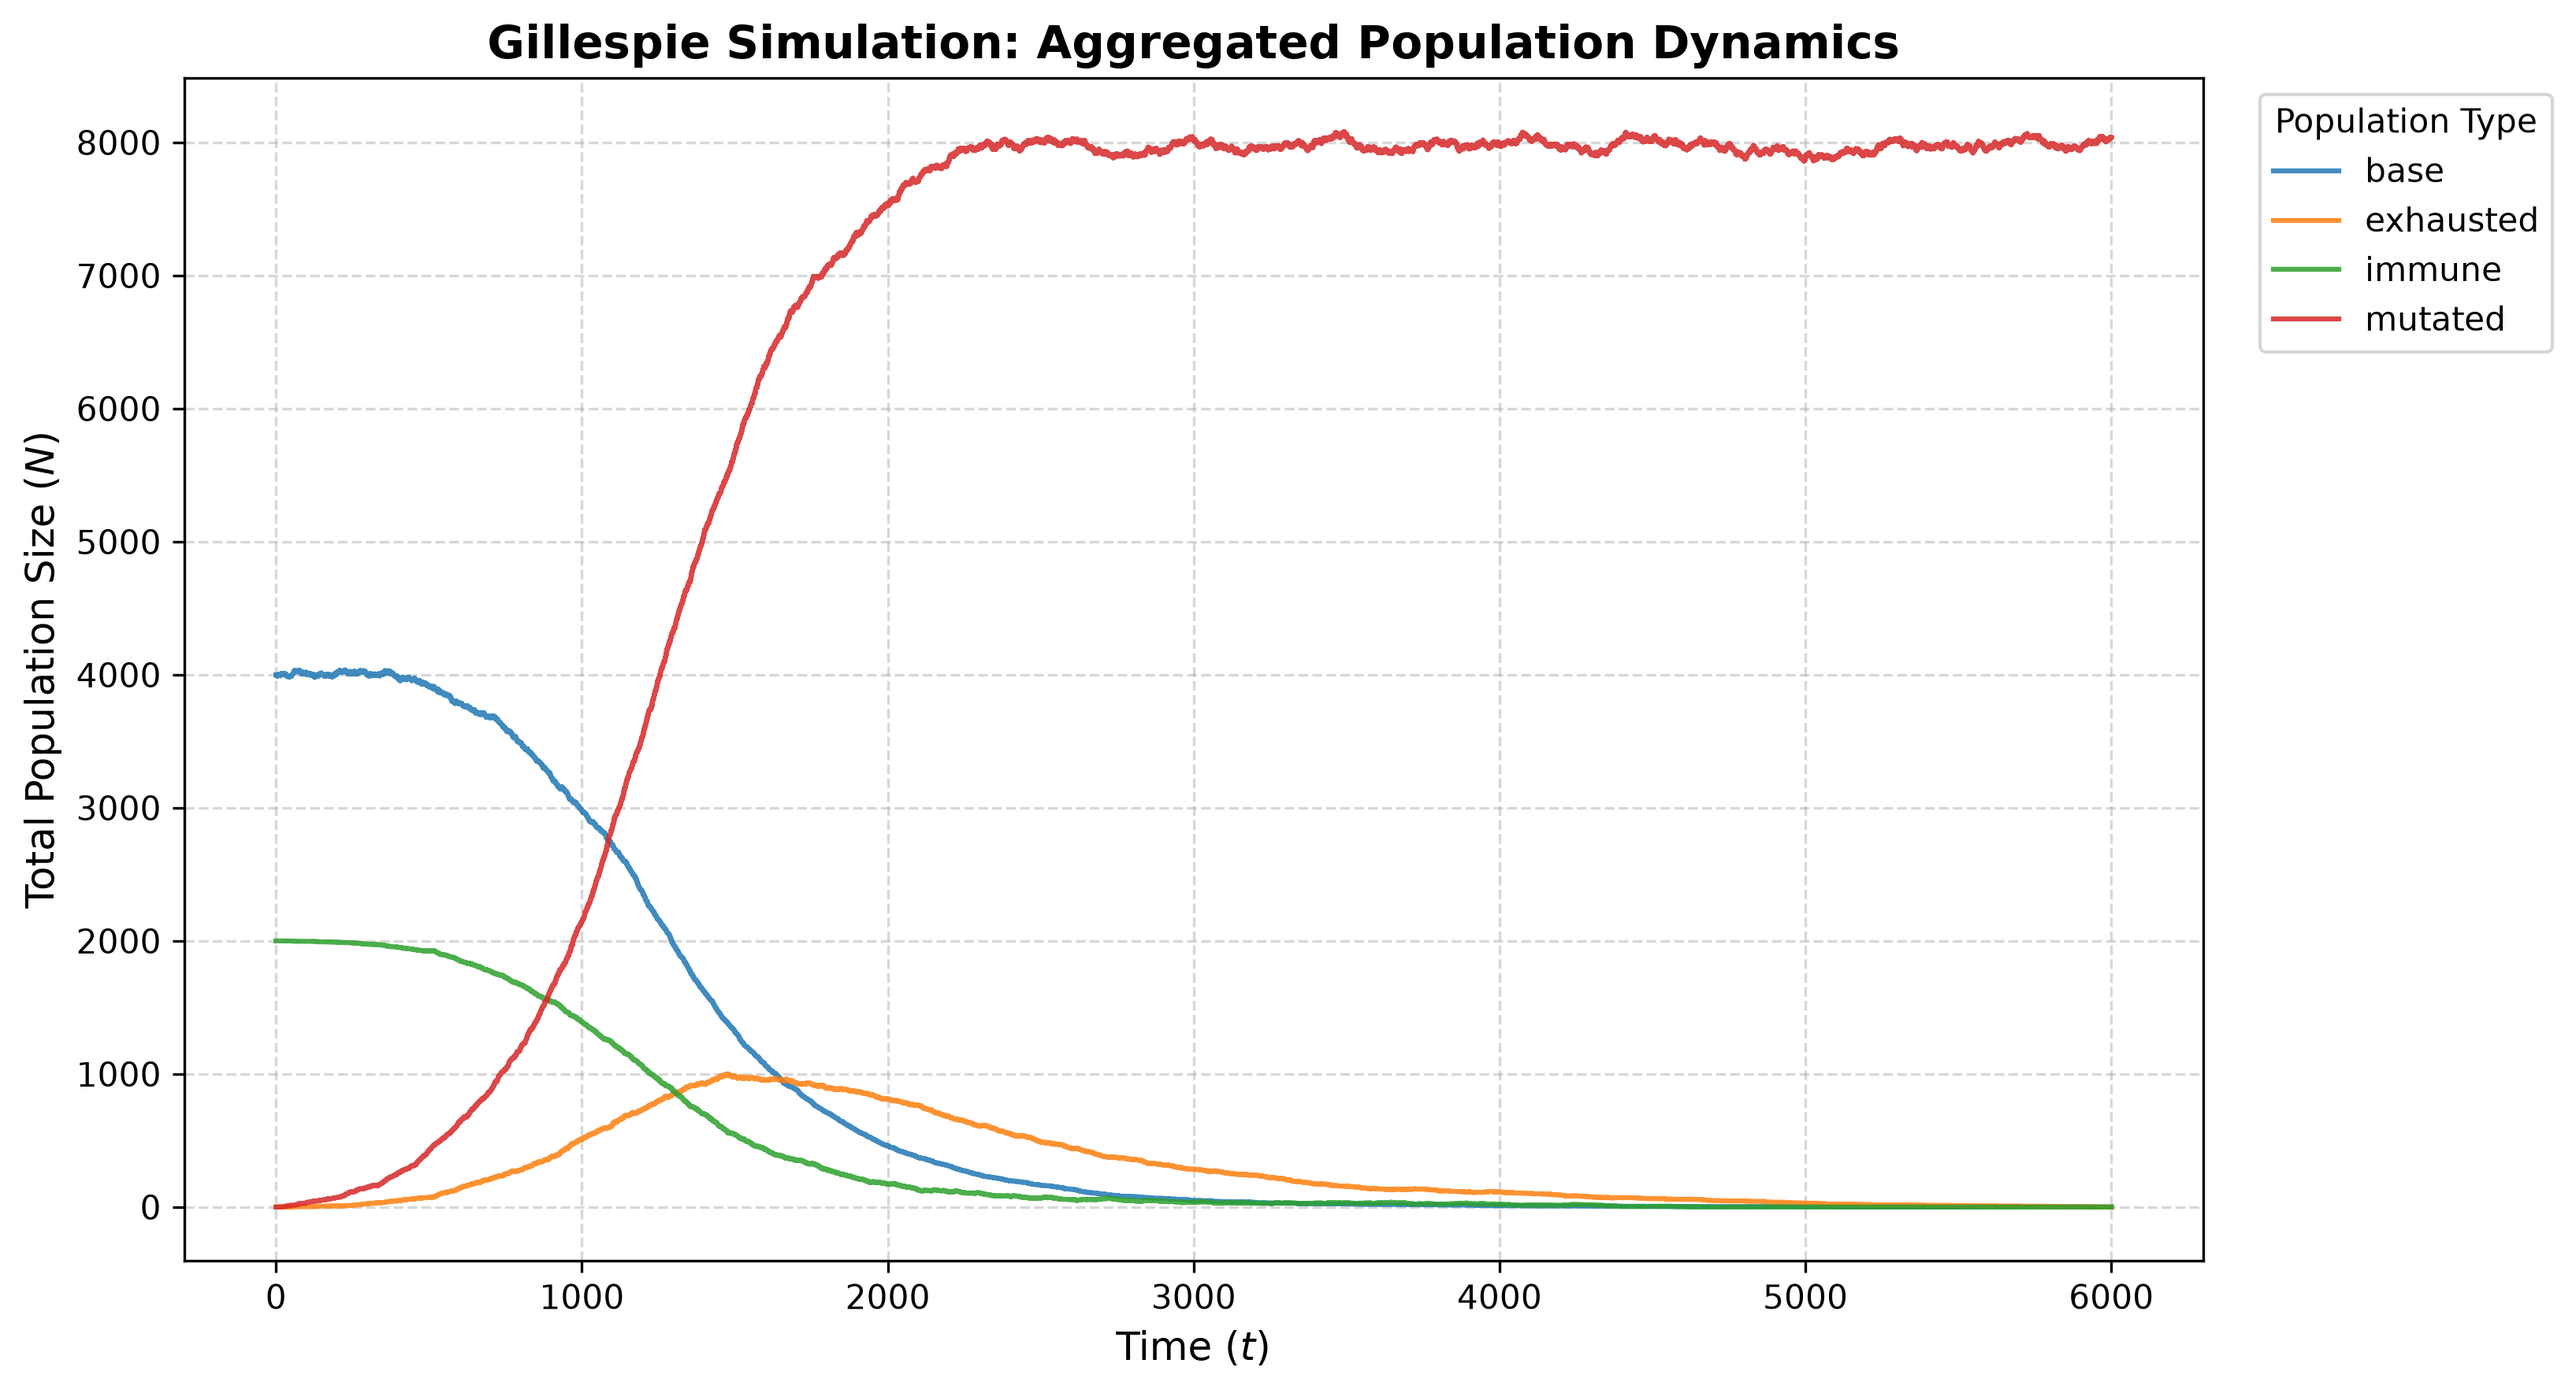
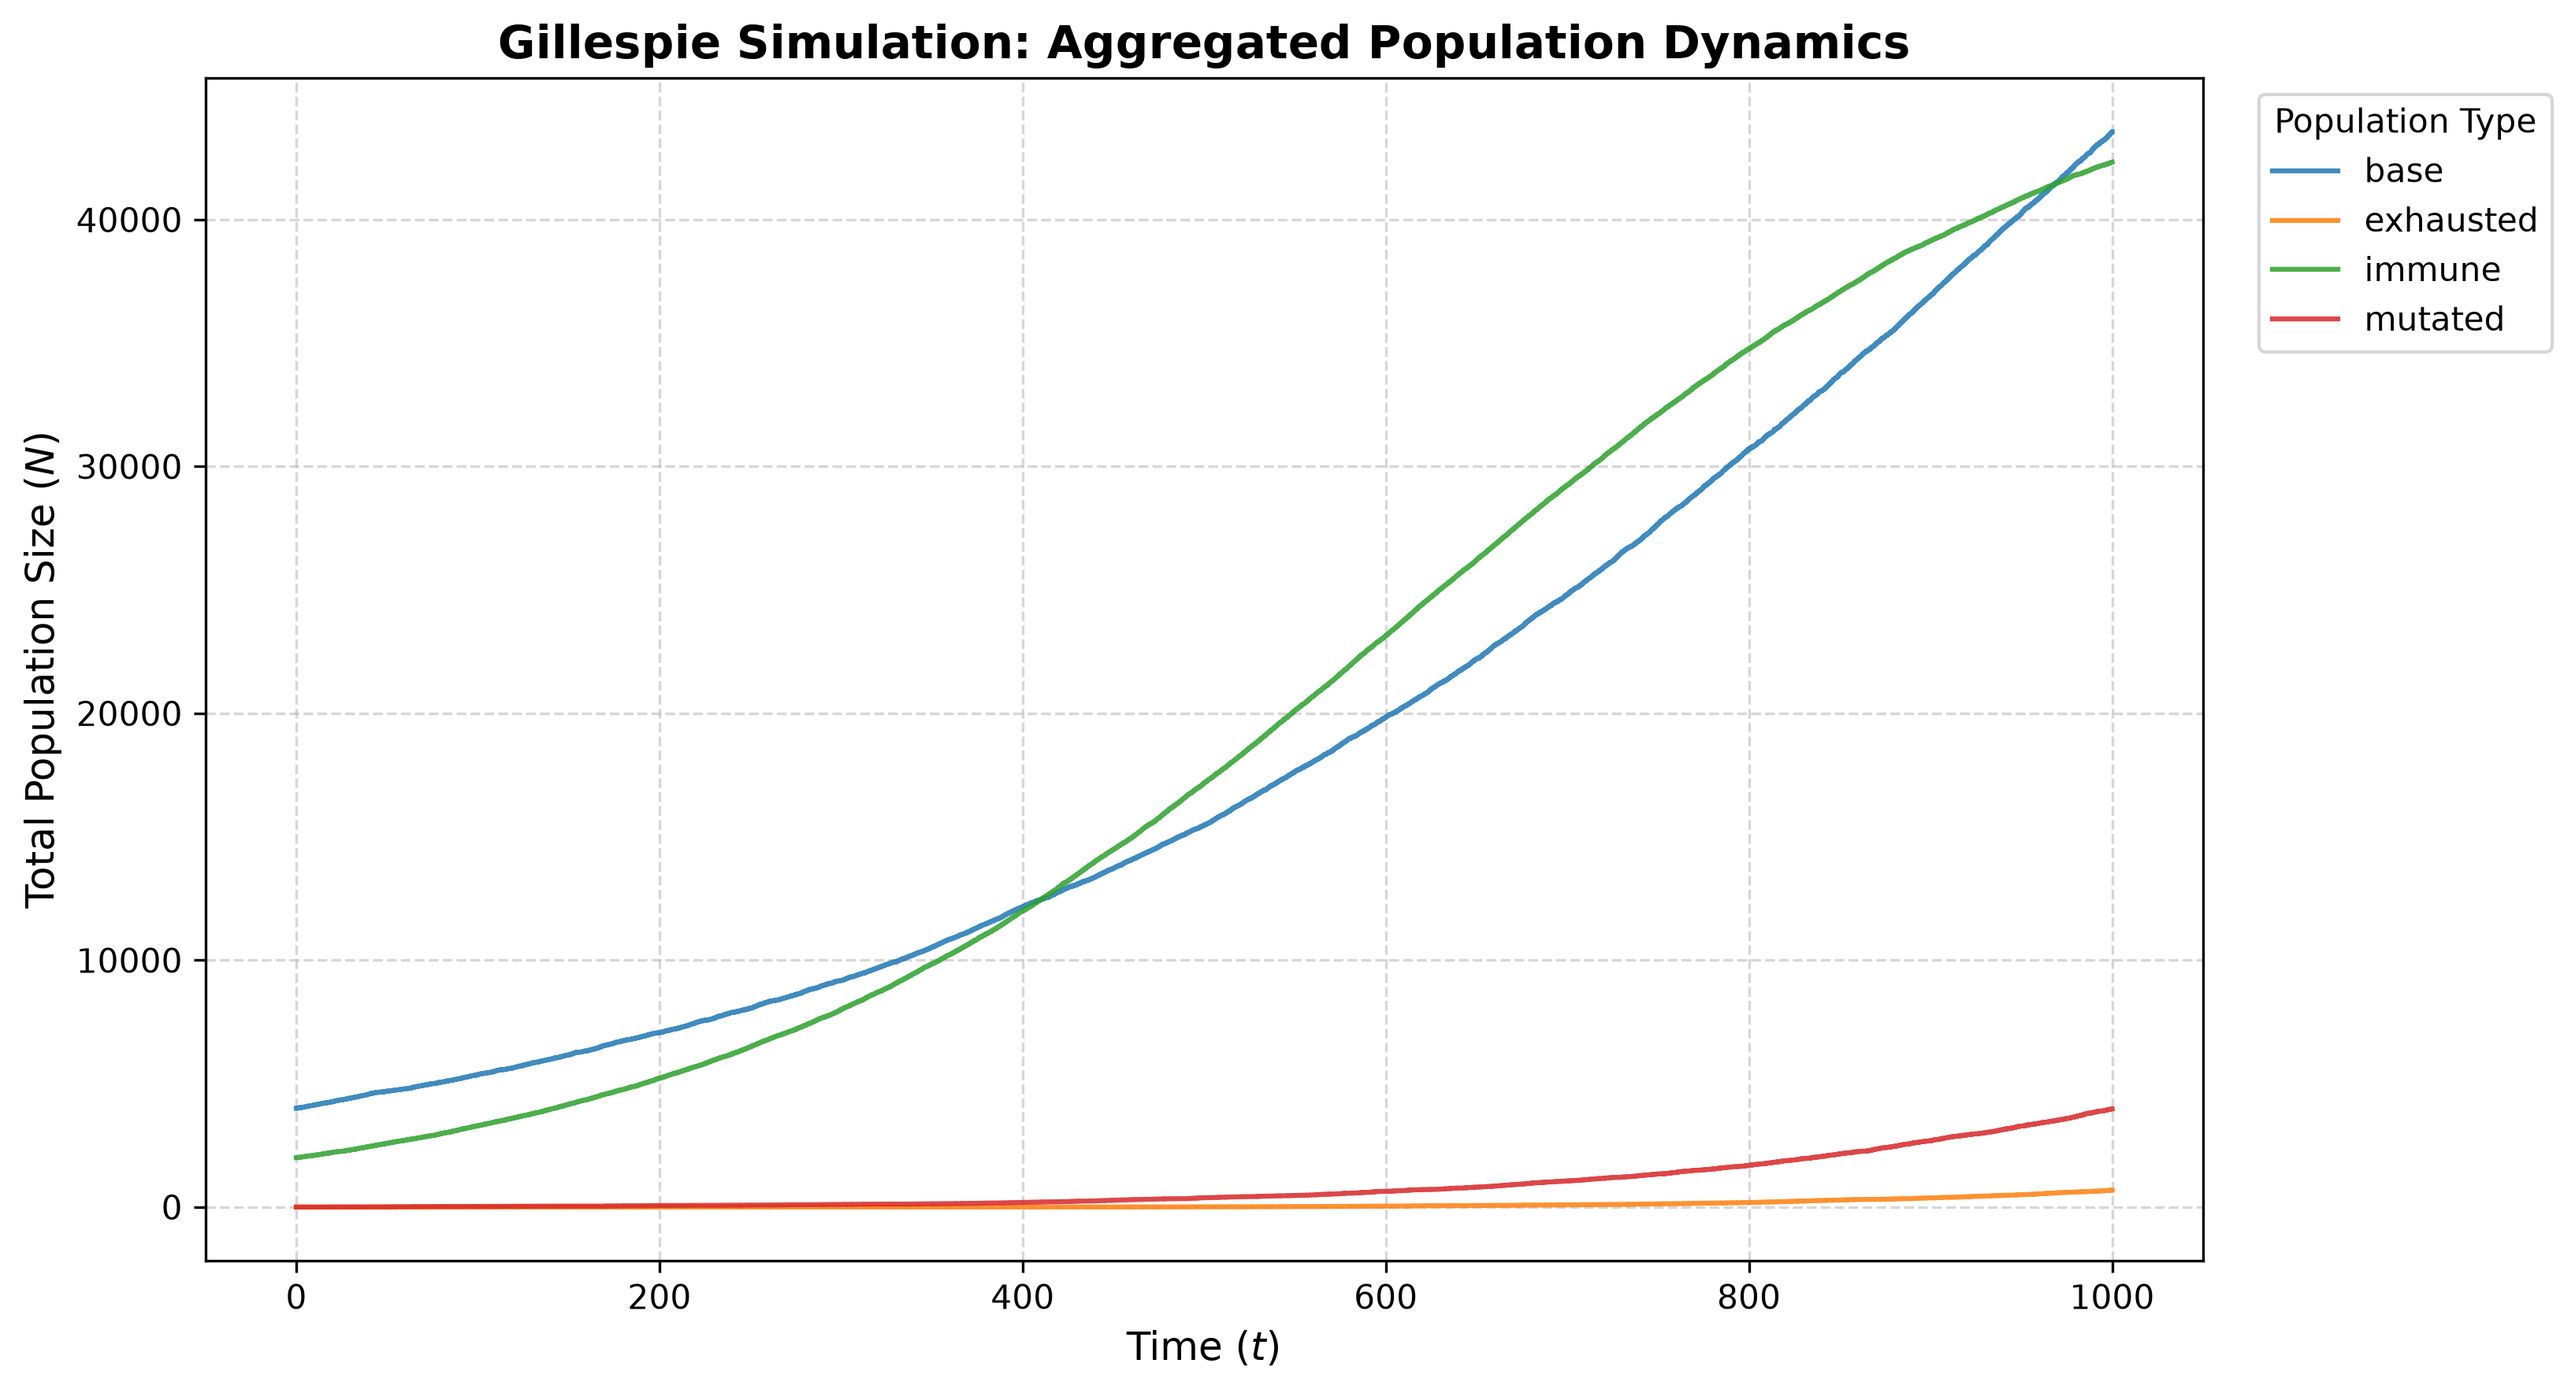
opcion de que guardar en memoria para simulaciones grandes + tqdm

diff --git a/src/gillespie/tumor_simulation.py b/src/gillespie/tumor_simulation.py
@@ -3,6 +3,7 @@ from __future__ import annotations
 from typing import Dict, List, Optional, Tuple
 
 import numpy as np
+from tqdm import tqdm
 from src.gillespie.cloneId import CloneId
 from src.gillespie.clone import Clone
 from src.gillespie.tissue_state import TissueState
@@ -16,11 +17,16 @@ from src.gillespie.clone_factory import CloneFactory
 class TumorSimulation:
     def __init__(self, config: SimulationConfig) -> None:
         self.config = config
+        self.save_all_steps = config.save_all_steps
+        self.save_interval = config.save_interval if config.save_interval > 0 else (1 if config.save_all_steps else 0)
+        self.step_count = 0
         self.rng = np.random.default_rng(config.seed)
         self.clone_factory = CloneFactory(config)
         self.t = 0.0
         print("arrancando con parametros:")
         print(config)
+        if self.save_interval == 0:
+            print(f"Memory mode: minimal (only final state). Use save_all_steps=True to save all steps.")
         
         #aqui igual merece mas la pena guardarlo como array simplemente o eso o hacerlo por tipos pero en ese caso 
         # Initialize clones
@@ -37,15 +43,13 @@ class TumorSimulation:
         # Encapsulate tissue state
         self.tissue_state: TissueState = TissueState(t= self.t, clones=clones_dict)
 
-
-
         # Use crowding strategy from config (initialized in SimulationConfig.__post_init__)
         self.crowding_strategy: CrowdingStrategy = self.config.crowding_strategy
 
         #aqui habria que anyadir lo mismo para elegir strategy pero para el tipo de leap. (Binomial, Poisson, Poisson half etc)
-        self.history: List[Dict[CloneId, dict]] = [self.tissue_state.snapshot()]
-        self.rate_history: List[List[Dict]] = []
-        self.events: List[Optional[Event]] = [] #esto para que lo usamos???
+        self.history: List[Dict[CloneId, dict]] = [self.tissue_state.snapshot()] if self.save_interval > 0 else []
+        self.rate_history: List[List[Dict]] = [] if self.save_interval > 0 else []
+        self.events: List[Optional[Event]] = [] if self.save_all_steps else []
         rates0=self._build_rate_matrix()
         print("STARTING RATES AND STATE")
         self.tissue_state.print_pop_map()
@@ -180,22 +184,27 @@ class TumorSimulation:
 
     def step(self, return_matrix: Optional[bool] = False) -> bool:
         """Advance by one Gillespie step. Returns False when simulation should stop."""
+        self.step_count += 1
         rate_matrix = self._build_rate_matrix()
   
         if return_matrix == True:
             print(self.t)
             self.print_event_table(events = rate_matrix.events)
         total_rate = rate_matrix.get_total_rate()
-        step_rates = [
-            {
-                "time": self.t,
-                "kind": e.kind.name,
-                "clone_id": e.clone_id,
-                "clone_type": e.clone_type,
-                "rate": e.rate,
-            } for e in rate_matrix.events
-        ]
-        self.rate_history.append(step_rates)
+        
+        # Only record rates if saving history
+        if self.save_interval > 0:
+            step_rates = [
+                {
+                    "time": self.t,
+                    "kind": e.kind.name,
+                    "clone_id": e.clone_id,
+                    "clone_type": e.clone_type,
+                    "rate": e.rate,
+                } for e in rate_matrix.events
+            ]
+            self.rate_history.append(step_rates)
+        
         if total_rate <= 0 or not rate_matrix.events:
             return False
 
@@ -207,6 +216,7 @@ class TumorSimulation:
             self._advance_all_instability(tau)
             self.t = self.config.T_max
             self.times.append(self.t)
+            # Always save final state
             self.history.append(self.tissue_state.snapshot())
             print("FINAL RATES AND STATE")
             self.tissue_state.print_pop_map()
@@ -221,21 +231,16 @@ class TumorSimulation:
         self._apply_event(event)
         self.tissue_state.update_pop_map()
         
-
         self.times.append(self.t)
         self.tissue_state.t = self.t
-        self.history.append(self.tissue_state.snapshot())
-
-        #TODO: revisar esto, no entiendo por que le volvemos a pasar el event al hacer el step, es para luego sacarlo en el debugger? porque si no no le veo el sentido.
-        self.events.append(event)
-        # if self.config.verbose:
-        #     if event.clone_type == "mutant" or event.clone_type == "immune":
-        #             print("-------------------")
-        #             print(f"time:{self.t}" )
-        #             print(f"EVENT: {event.kind.value}")
-        #             print(f"KIND: {event.clone_type} ")
-        #             self.tissue_state.print_pop_map()
-        #             print("-------------------")
+        
+        # Save snapshots conditionally
+        if self.save_interval > 0 and self.step_count % self.save_interval == 0:
+            self.history.append(self.tissue_state.snapshot())
+        
+        # Save events if recording all steps
+        if self.save_all_steps:
+            self.events.append(event)
                 
         return True
         
@@ -267,7 +272,10 @@ class TumorSimulation:
         return False
 
     def run(self) -> Tuple[List[float], List[Dict[CloneId, dict]], TissueState]:
-        while not self._stopping_cond():
-            if not self.step():
-                break
+        with tqdm(desc="Simulating", unit=" steps") as pbar:
+            while not self._stopping_cond():
+                if not self.step():
+                    break
+                pbar.update(1)
+                pbar.set_postfix({"time": f"{self.t:.2f}/{self.config.T_max:.2f}"})
         return self.times, self.history, self.tissue_state, self.rate_history

diff --git a/src/gillespie/simulation_config.py b/src/gillespie/simulation_config.py
@@ -51,7 +51,7 @@ _DEFAULT_CELL_PARAMETERS = {
 @dataclass(frozen=True)
 class SimulationConfig:
 
-    OMEGA: int = 4000 #NUMERO MAXIMO DE CELULAS WT QUE SOPORTA CUANDO NO HAY COMPETICION
+    OMEGA: int = 100000 #NUMERO MAXIMO DE CELULAS WT QUE SOPORTA CUANDO NO HAY COMPETICION
     
     
     #TODO: IMPORTANTE: Mover los parametros de las celulas de flat a por tipo. que tengan un string acorde con el tipo y se puedan acceder al crear celulas como my_defaults=self.config.params("cell_type") y luego hacer birth_rate=my_defaults.lambda0
@@ -59,7 +59,7 @@ class SimulationConfig:
    
  
     # simulation control
-    T_max: float = 6000
+    T_max: float = 1000
     seed: Optional[int] = None
 
    
@@ -88,6 +88,8 @@ class SimulationConfig:
     decay: bool = False
     use_logistic: bool = True  # ESTO SIEMPRE TIENE QUE SER TRUE O EL CRECIMIENTO EXPONENCIAL EXPLOTA
     use_logistic_adapted: bool = True
+    save_all_steps: bool = True
+    save_interval: int = 0
     
     # Crowding strategy (será inicializado en __post_init__)
     crowding_strategy: "CrowdingStrategy" = field(init=False, default=None)
